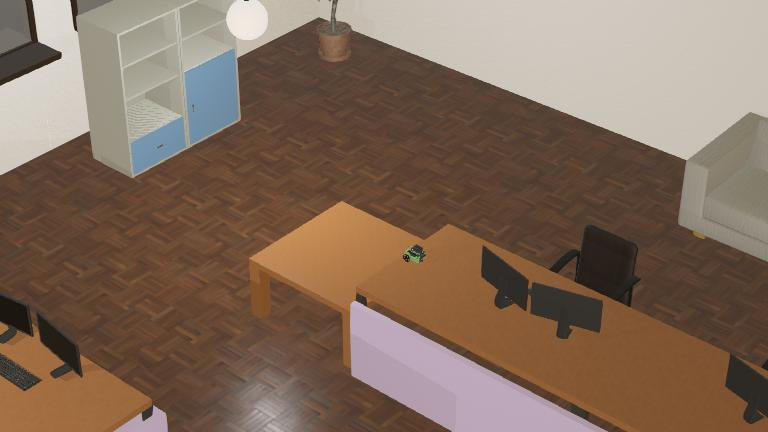
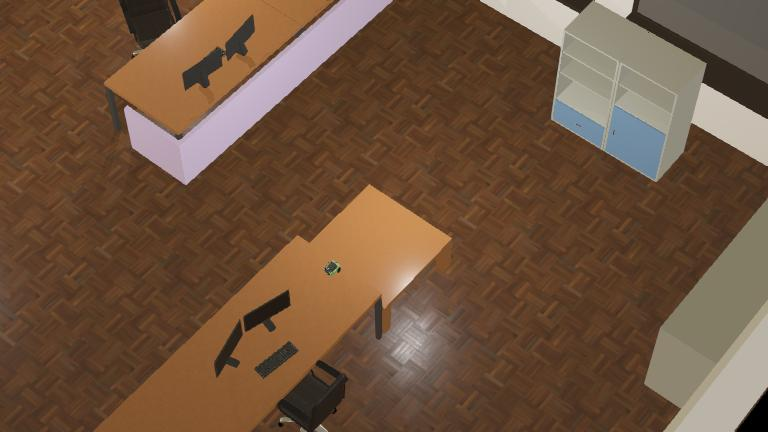
Improve lights

diff --git a/office/plugins/robot_windows/jetbot_view/jetbot_view.html b/office/plugins/robot_windows/jetbot_view/jetbot_view.html
@@ -19,11 +19,12 @@
       <button class="spawner-option" onclick="spawnerButtonCallback(this)">Clock</button>
       <button class="spawner-option" onclick="spawnerButtonCallback(this)">TennisRacket</button>
       <h2>Camera controls</h2>
-      <label id="noise-level">Camera noise: <input onchange="noiseInputCallback(this)" step="0.025" type="number" style="width:40px" value="0"></label><br>
-      <label id="lens-radial-coefficient">Lens radial coefficient: x <input onchange="lensRadialInputCallback(this)" step="0.1" type="number" style="width:40px" value="0"> y <input onchange="lensRadialInputCallback(this)" step="0.1" type="number" style="width:40px" value="0"></label>
+      <label id="noise-level">Camera noise: <input onchange="noiseInputCallback(this)" step="0.025" type="number" style="width:50px" value="0"></label><br>
+      <label id="lens-radial-coefficient">Lens radial coefficient: x <input onchange="lensRadialInputCallback(this)" step="0.1" type="number" style="width:50px" value="0"> y <input onchange="lensRadialInputCallback(this)" step="0.1" type="number" style="width:50px" value="0"></label>
       <h2>Light controls</h2>
-      <label id="light-position">Light position: <input onchange="lightPositionInputCallback(this)" step="0.5" type="number" style="width:40px" value="0.5"></label><br>
-      <label id="light-color">Light color: <input onchange="lightColorInputCallback(this)" step="0.5" type="color" style="width:40px" value="#ffffff"></label>
+      <label id="light-position">Light position: x <input onchange="lightPositionInputCallback(this)" step="0.5" type="number" style="width:50px" value="0"> y <input onchange="lightPositionInputCallback(this)" step="0.5" type="number" style="width:50px" value="0.5"> z <input onchange="lightPositionInputCallback(this)" step="0.5" type="number" style="width:50px" value="2"></label><br>
+      <label id="light-intensity">Light intensity: <input onchange="lightIntensityInputCallback(this)" step="0.5" type="number" style="width:50px" value="3"></label><br>
+      <label id="light-color">Light color: <input onchange="lightColorInputCallback(this)" step="0.5" type="color" style="width:50px" value="#ffffff"></label>
     </div>
     <script type="module" src="jetbot_view.js"></script>
   </body>

diff --git a/office/plugins/robot_windows/jetbot_view/jetbot_view.js b/office/plugins/robot_windows/jetbot_view/jetbot_view.js
@@ -40,13 +40,12 @@ window.lensRadialInputCallback =  function() {
 }
 
 window.lightPositionInputCallback =  function(obj) {
+  const element = document.getElementById("light-position");
+  window.robotWindow.send(`light-position:${element.children[0].value},${element.children[1].value},${element.children[2].value}`);
+}
 
-  if (parseFloat(obj.value) > 0.5)
-    obj.value = 0.5
-  if (parseFloat(obj.value) < -1.5)
-    obj.value = -1.5
-
-  window.robotWindow.send(`light-position:${obj.value}`);
+window.lightIntensityInputCallback =  function(obj) {
+  window.robotWindow.send(`light-intensity:${obj.value}`);
 }
 
 window.lightColorInputCallback =  function(obj) {

diff --git a/office/controllers/jetbot_controller/jetbot_controller.py b/office/controllers/jetbot_controller/jetbot_controller.py
@@ -55,8 +55,10 @@ def handle_wwi_messages():
             value = [float(x) for x in message[19:].split(',')]
             lens_field.setSFVec2f(value)
         elif message.startswith('light-position:'):
-            current_position = light_translation_field.getSFVec3f()
-            light_translation_field.setSFVec3f([float(message[15:]), current_position[1], current_position[2]])
+            value = [float(x) for x in message[15:].split(',')]
+            light_location_field.setSFVec3f(value)
+        elif message.startswith('light-intensity:'):
+            light_intensity_field.setSFFloat(float(message[16:]))
         elif message.startswith('light-color:'):
             value = [float(x) for x in message[12:].split(',')]
             light_color_field.setSFColor(value)
@@ -80,8 +82,9 @@ lens_field = camera_node.getField('lens').getSFNode().getField('radialCoefficien
 current_detection = None
 
 light_node = robot.getFromDef("LIGHT")
-light_translation_field = light_node.getField('translation')
-light_color_field = light_node.getField('pointLightColor')
+light_location_field = light_node.getField('location')
+light_intensity_field = light_node.getField('intensity')
+light_color_field = light_node.getField('color')
 
 robot.step(TIMESTEP)
 
